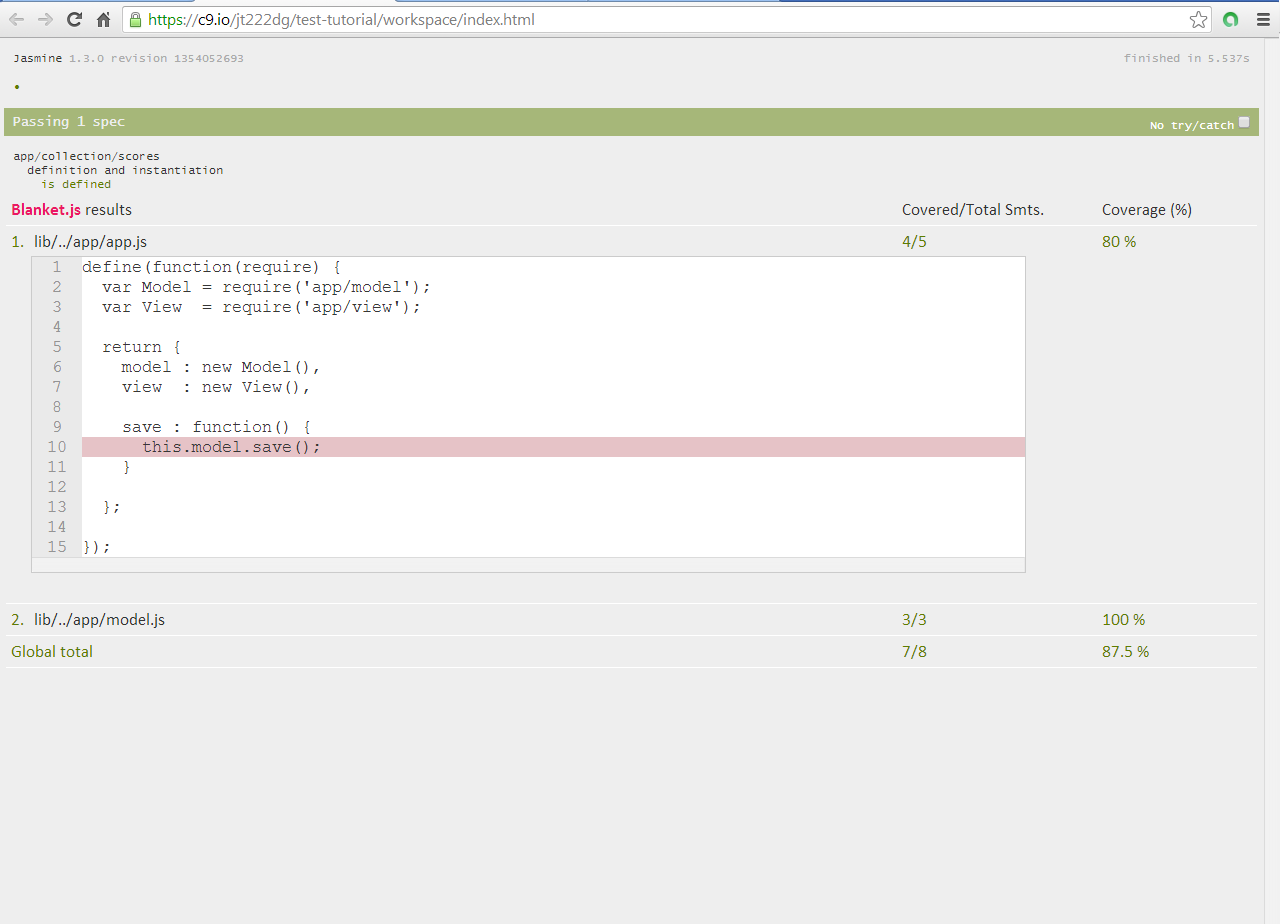
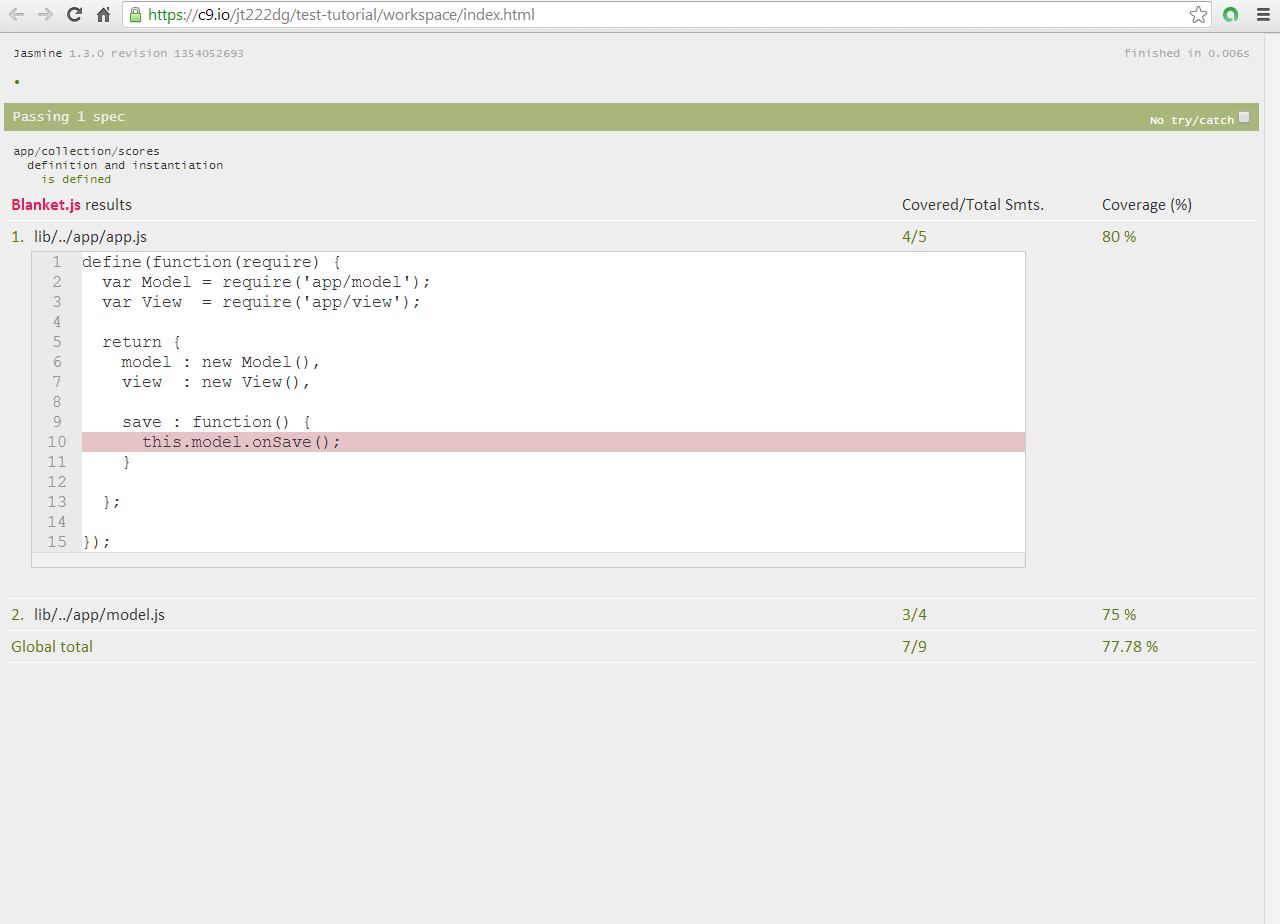
changed fourth.png

diff --git a/app/model.js b/app/model.js
@@ -2,9 +2,9 @@ define(function(require) {
   var Backbone = require('backbone');
   
   return Backbone.Model.extend({
-  
-    // Empty, just for testing purposes
-    
+    onSave : function() {
+      this.save();
+    }
   });
   
 });

diff --git a/test-runner.js b/test-runner.js
@@ -19,7 +19,6 @@ define(function(require) {
       
       // App tests
       this.specs.push('spec/app/app.test.js');
-      this.specs.push('spec/app/model.test.js');
     },
     
     execute : function() {

diff --git a/app/app.js b/app/app.js
@@ -7,7 +7,7 @@ define(function(require) {
     view  : new View(),
     
     save : function() {
-      this.model.save();
+      this.model.onSave();
     }
     
   };
